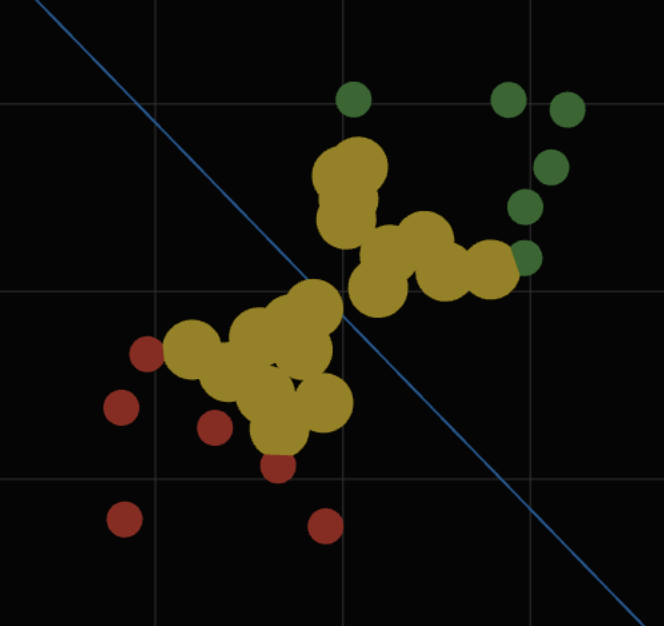
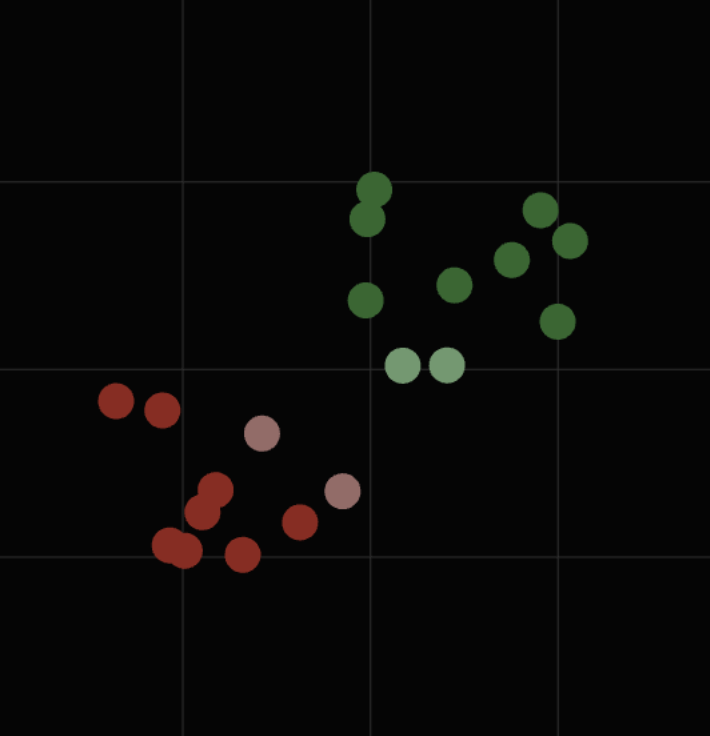
feat: test updates

diff --git a/apps/web/tests/visual/linear-regression.spec.ts b/apps/web/tests/visual/linear-regression.spec.ts
@@ -1,6 +1,8 @@
 import test, { expect } from "@playwright/test";
+import { addMockRandomInitScript } from "../utils";
 
 test("Visual regression test", async ({ page }) => {
+  await addMockRandomInitScript(page);
   // Set viewport size before navigating
   await page.setViewportSize({ width: 1280, height: 720 });
   await page.goto("/linear-regression");
@@ -15,8 +17,5 @@ test("Visual regression test", async ({ page }) => {
   // Take screenshot
   await expect(page.getByRole("main").locator("canvas")).toHaveScreenshot(
     "linear-regression-page.png",
-    {
-      maxDiffPixelRatio: 0,
-    },
   );
 });

diff --git a/apps/web/tests/visual/autoencoder.spec.ts b/apps/web/tests/visual/autoencoder.spec.ts
@@ -1,6 +1,8 @@
 import test, { expect } from "@playwright/test";
+import { addMockRandomInitScript } from "../utils";
 
 test("Visual regression test", async ({ page }) => {
+  await addMockRandomInitScript(page);
   // Set viewport size before navigating
   await page.setViewportSize({ width: 1280, height: 720 });
   await page.goto("/autoencoder");
@@ -8,8 +10,5 @@ test("Visual regression test", async ({ page }) => {
   // Take screenshot
   await expect(page.getByRole("main").locator("canvas")).toHaveScreenshot(
     "autoencoder-page.png",
-    {
-      maxDiffPixelRatio: 0.05,
-    },
   );
 });

diff --git a/apps/web/tests/visual/ffnn.spec.ts b/apps/web/tests/visual/ffnn.spec.ts
@@ -1,6 +1,8 @@
 import test, { expect } from "@playwright/test";
+import { addMockRandomInitScript } from "../utils";
 
 test("Visual regression test", async ({ page }) => {
+  await addMockRandomInitScript(page);
   // Set viewport size before navigating
   await page.setViewportSize({ width: 1280, height: 720 });
   await page.goto("/ffnn");
@@ -8,8 +10,5 @@ test("Visual regression test", async ({ page }) => {
   // Take screenshot
   await expect(page.getByRole("main").locator("canvas")).toHaveScreenshot(
     "ffnn-page.png",
-    {
-      maxDiffPixelRatio: 0.05,
-    },
   );
 });

diff --git a/apps/web/tests/visual/kmeans.spec.ts b/apps/web/tests/visual/kmeans.spec.ts
@@ -1,15 +1,15 @@
 import test, { expect } from "@playwright/test";
+import { addMockRandomInitScript } from "../utils";
 
 test("Visual regression test", async ({ page }) => {
-  // Set viewport size before navigating
+  await addMockRandomInitScript(page);
+
   await page.setViewportSize({ width: 1280, height: 720 });
   await page.goto("/kmeans");
 
+  await page.waitForTimeout(1000);
   // Take screenshot
   await expect(page.getByRole("main").locator("canvas")).toHaveScreenshot(
     "kmeans-page.png",
-    {
-      maxDiffPixelRatio: 0.05,
-    },
   );
 });

diff --git a/apps/web/playwright.config.ts b/apps/web/playwright.config.ts
@@ -1,4 +1,4 @@
-import { defineConfig, devices } from "@playwright/test";
+import { defineConfig } from "@playwright/test";
 
 export default defineConfig({
   testDir: "./tests",
@@ -15,7 +15,15 @@ export default defineConfig({
   projects: [
     {
       name: "chromium",
-      use: { ...devices["Desktop Chrome"] },
+      use: { browserName: "chromium" },
+    },
+    {
+      name: "firefox",
+      use: { browserName: "firefox" },
+    },
+    {
+      name: "webkit",
+      use: { browserName: "webkit" },
     },
   ],
   webServer: {

diff --git a/apps/web/tests/visual/xgboost.spec.ts b/apps/web/tests/visual/xgboost.spec.ts
@@ -1,15 +1,14 @@
 import test, { expect } from "@playwright/test";
+import { addMockRandomInitScript } from "../utils";
 
 test("Visual regression test", async ({ page }) => {
   // Set viewport size before navigating
+  await addMockRandomInitScript(page);
   await page.setViewportSize({ width: 1280, height: 720 });
   await page.goto("/xgboost");
 
   // Take screenshot
   await expect(page.getByRole("main").locator("canvas")).toHaveScreenshot(
     "xgboost-page.png",
-    {
-      maxDiffPixelRatio: 0.05,
-    },
   );
 });

diff --git a/apps/web/tests/visual/svm.spec.ts b/apps/web/tests/visual/svm.spec.ts
@@ -1,15 +1,14 @@
 import test, { expect } from "@playwright/test";
+import { addMockRandomInitScript } from "../utils";
 
 test("Visual regression test", async ({ page }) => {
   // Set viewport size before navigating
+  await addMockRandomInitScript(page);
   await page.setViewportSize({ width: 1280, height: 720 });
   await page.goto("/svm");
 
   // Take screenshot
   await expect(page.getByRole("main").locator("canvas")).toHaveScreenshot(
     "svm-page.png",
-    {
-      maxDiffPixelRatio: 0.05,
-    },
   );
 });

diff --git a/apps/web/tests/utils.ts b/apps/web/tests/utils.ts
@@ -1,0 +1,14 @@
+import { Page } from "@playwright/test";
+
+export const addMockRandomInitScript = async (page: Page) => {
+  await page.addInitScript(() => {
+    let seed = 42;
+    Math.random = () => {
+      seed = seed + 0x6d2b79f5;
+      let t = seed;
+      t = Math.imul(t ^ (t >>> 15), t | 1);
+      t ^= t + Math.imul(t ^ (t >>> 7), t | 61);
+      return ((t ^ (t >>> 14)) >>> 0) / 4294967296;
+    };
+  });
+};

diff --git a/packages/algorithms/src/impl/svm/meta.ts b/packages/algorithms/src/impl/svm/meta.ts
@@ -9,6 +9,6 @@ export const svmMeta: SVMDefinition["meta"] = {
   title: "Support Vector Machine",
   description:
     "A support vector machine is a type of supervised learning algorithm used for classification and regression analysis.",
-  shortDescription: "Classify data points using a hyperplane.",
+  shortDescription: "Classify data points with decision boundaries.",
   synonyms: ["svm", "support vector machine"],
 };
